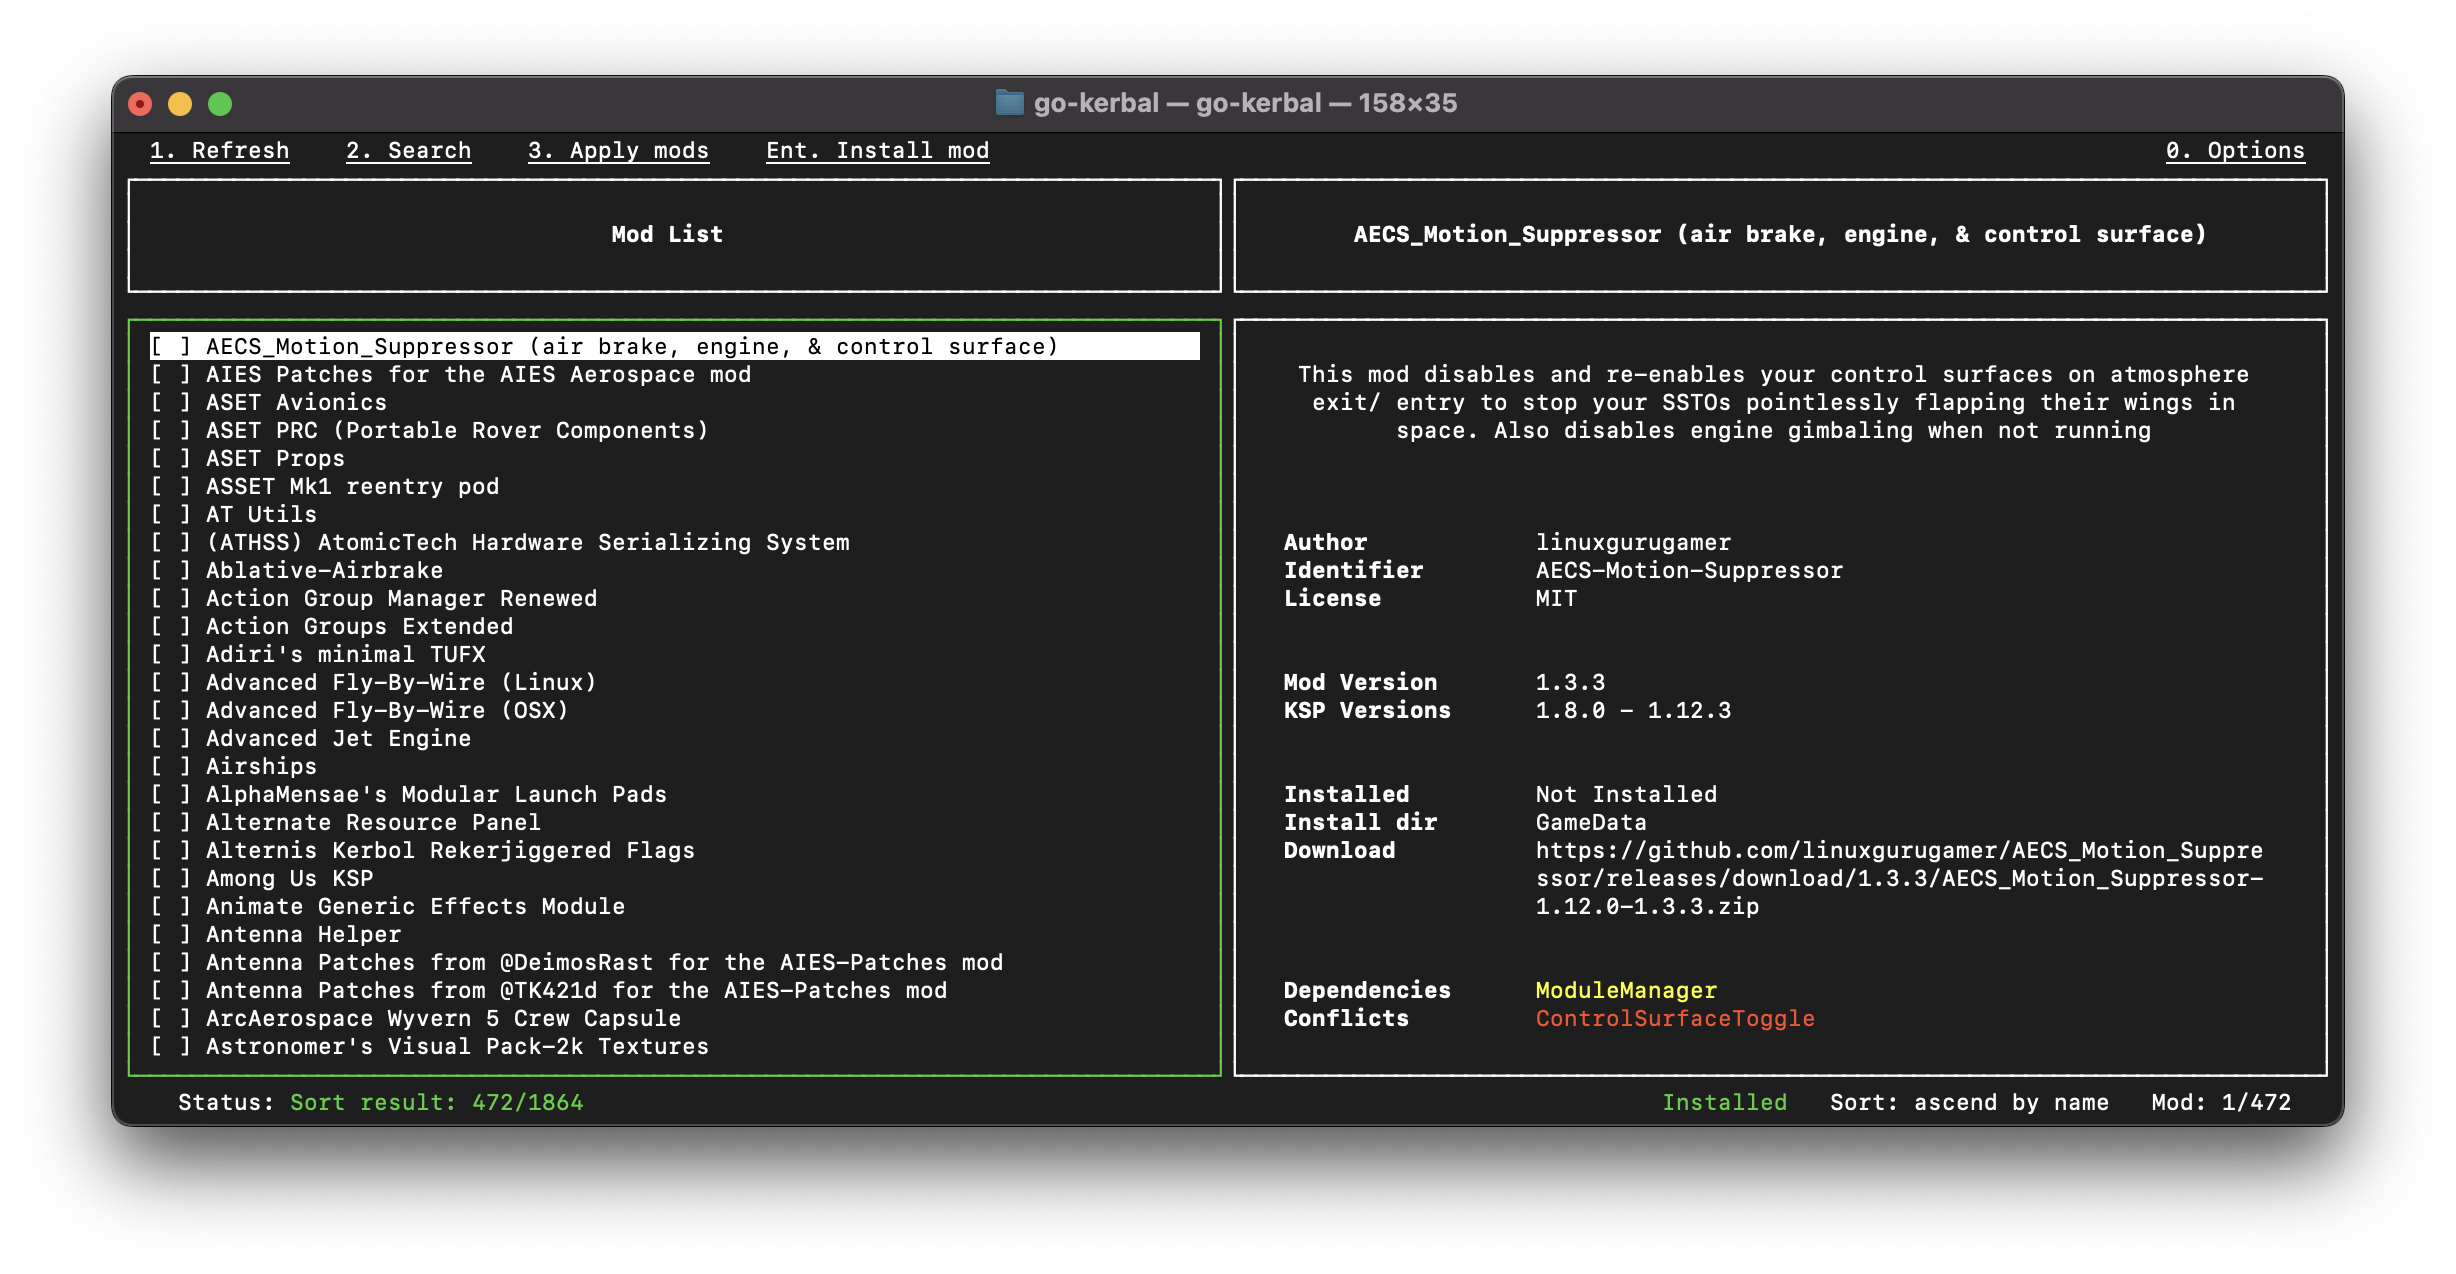
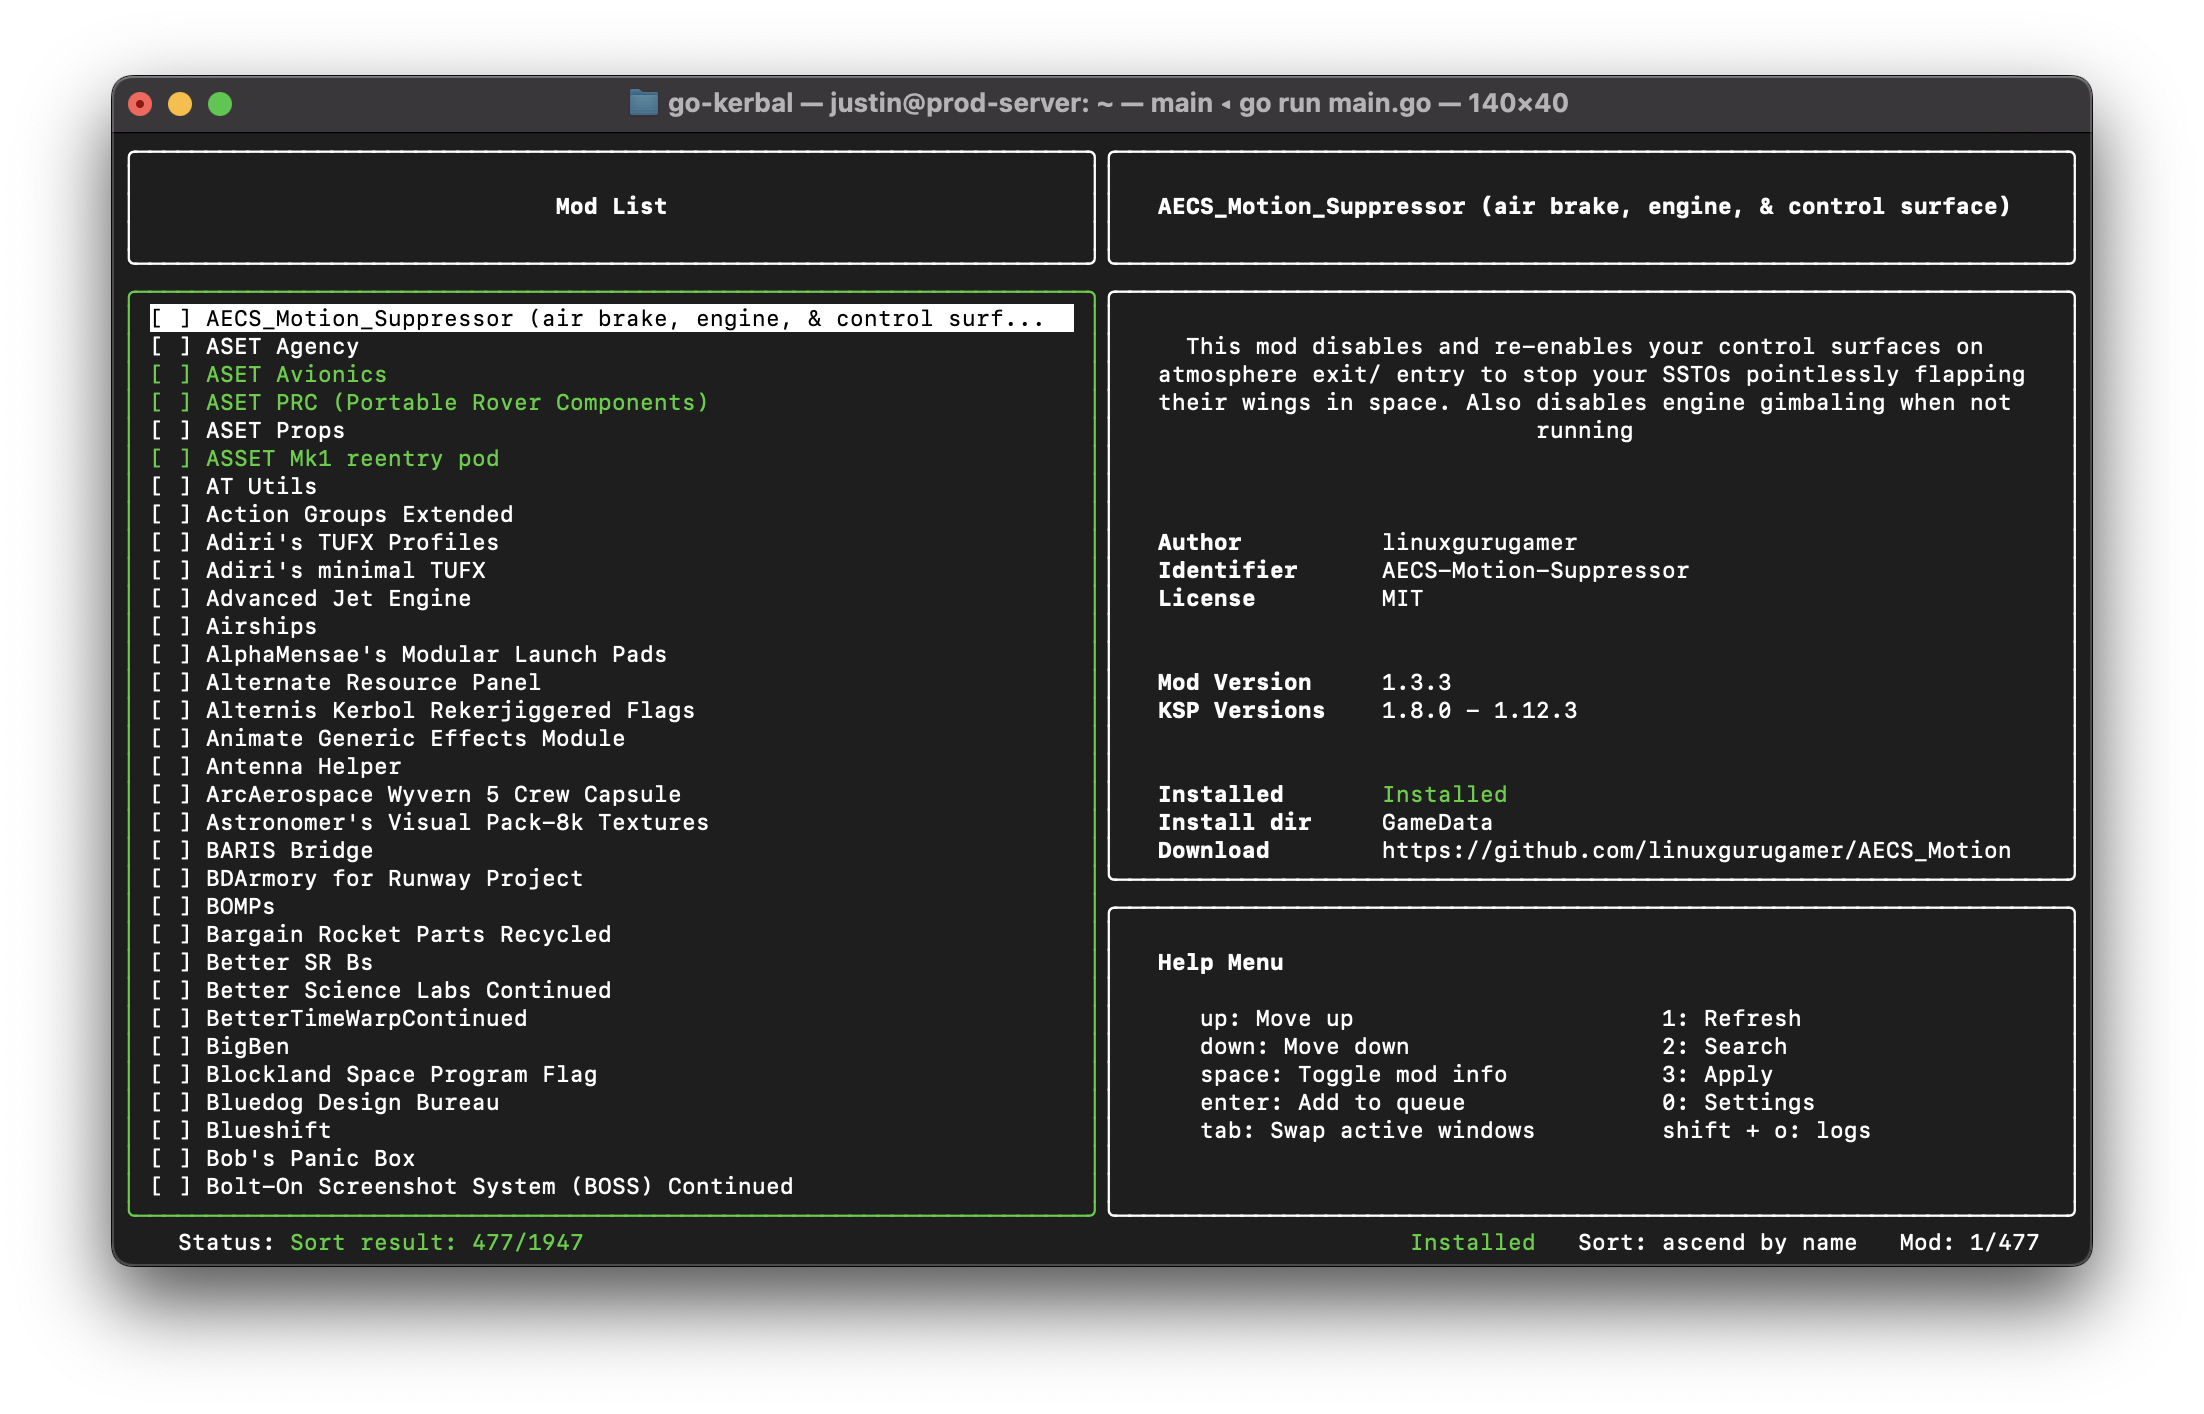
removed top toolbar

Changed region(s): [[0.0309, 0.0306, 0.9564, 0.9184], [0.833, 0.7959, 0.8639, 0.8265], [0.6788, 0.4898, 0.7096, 0.5204]]

diff --git a/internal/tui/views.go b/internal/tui/views.go
@@ -151,7 +151,14 @@ func (b Bubble) homeView() string {
 		Padding(2).
 		Render
 
-	return contentStyle("Go-Kerbal Home Page")
+	content := "Go-Kerbal Home Page\n" +
+		"\n" +
+		"To do:\n " +
+		"- Display error messages\n " +
+		"- Ensure mods install/uninstall properly\n " +
+		"- Dynamic command view\n "
+
+	return contentStyle(content)
 
 }
 
@@ -200,7 +207,7 @@ func (b Bubble) logView() string {
 
 	body := connectVert(bodyList...)
 	return lipgloss.NewStyle().
-		Width(b.bubbles.splashViewport.Width - 1).
+		Width(b.bubbles.splashViewport.Width).
 		Height(b.bubbles.splashViewport.Height - 3).
 		Render(body)
 }
@@ -666,7 +673,7 @@ func (b Bubble) helpView() string {
 		Bold(true).
 		Align(lipgloss.Left).
 		Width(b.bubbles.commandViewport.Width).
-		Padding(1, 2)
+		Padding(1, 2, 0)
 
 	itemStyle := lipgloss.NewStyle().
 		Width((b.bubbles.commandViewport.Width / 2)).
@@ -675,11 +682,11 @@ func (b Bubble) helpView() string {
 		Render
 
 	leftColumn := []string{
-		itemStyle("up: move up"),
-		itemStyle("down: move down"),
-		itemStyle("space: space"),
-		itemStyle("enter: enter"),
-		itemStyle("tab: tab"),
+		itemStyle("up: Move up"),
+		itemStyle("down: Move down"),
+		itemStyle("space: Toggle mod info"),
+		itemStyle("enter: Add to queue"),
+		itemStyle("tab: Swap active windows"),
 	}
 
 	rightColumn := []string{
@@ -691,6 +698,8 @@ func (b Bubble) helpView() string {
 	}
 
 	content := connectHorz(connectVert(leftColumn...), connectVert(rightColumn...))
+
+	content = lipgloss.NewStyle().Padding(1).Render(content)
 
 	content = connectVert(
 		titleStyle.Render("Help Menu"),
@@ -712,7 +721,7 @@ func (b Bubble) getBoolOptionsView() string {
 	optionStyle := lipgloss.NewStyle().
 		Border(lipgloss.RoundedBorder()).
 		Align(lipgloss.Center).
-		Padding(1, 4).
+		Padding(0, 4).
 		Margin(1, 1)
 
 	cancel := optionStyle.Render("Cancel")

diff --git a/internal/tui/update.go b/internal/tui/update.go
@@ -78,16 +78,16 @@ func (b Bubble) Update(msg tea.Msg) (tea.Model, tea.Cmd) {
 		b.height = msg.Height
 
 		b.bubbles.primaryViewport.Width = (msg.Width / 2) - b.bubbles.primaryViewport.Style.GetHorizontalFrameSize()
-		b.bubbles.primaryViewport.Height = msg.Height - (internal.StatusBarHeight * 2) - b.bubbles.primaryViewport.Style.GetVerticalFrameSize() - 5
+		b.bubbles.primaryViewport.Height = msg.Height - internal.StatusBarHeight - b.bubbles.primaryViewport.Style.GetVerticalFrameSize() - 5
 
 		b.bubbles.secondaryViewport.Width = (msg.Width / 2) - b.bubbles.secondaryViewport.Style.GetHorizontalFrameSize()
-		b.bubbles.secondaryViewport.Height = (msg.Height * 2 / 3) - (internal.StatusBarHeight * 2) - b.bubbles.secondaryViewport.Style.GetVerticalFrameSize() - 2
+		b.bubbles.secondaryViewport.Height = (msg.Height * 2 / 3) - internal.StatusBarHeight - b.bubbles.secondaryViewport.Style.GetVerticalFrameSize() - 3
 
 		b.bubbles.commandViewport.Width = (msg.Width / 2) - b.bubbles.commandViewport.Style.GetHorizontalFrameSize()
-		b.bubbles.commandViewport.Height = (msg.Height / 3) - (internal.StatusBarHeight * 2) - b.bubbles.commandViewport.Style.GetVerticalFrameSize()
+		b.bubbles.commandViewport.Height = (msg.Height / 3) - internal.StatusBarHeight - b.bubbles.commandViewport.Style.GetVerticalFrameSize()
 
 		b.bubbles.splashViewport.Width = msg.Width - b.bubbles.splashViewport.Style.GetHorizontalFrameSize()
-		b.bubbles.splashViewport.Height = msg.Height - (internal.StatusBarHeight * 2) - b.bubbles.splashViewport.Style.GetVerticalFrameSize() - 5
+		b.bubbles.splashViewport.Height = msg.Height - internal.StatusBarHeight - b.bubbles.splashViewport.Style.GetVerticalFrameSize() - 5
 
 	case tea.KeyMsg:
 		cmds = append(cmds, b.handleKeys(msg))

diff --git a/internal/tui/view.go b/internal/tui/view.go
@@ -95,30 +95,28 @@ func (b Bubble) View() string {
 	}
 
 	return connectVert(
-		b.getMainButtonsView(),
+		//b.getMainButtonsView(),
 		body,
 		b.statusBarView(),
 	)
 }
 
 func (b Bubble) styleTitle(s string) string {
+	titleStyle := lipgloss.NewStyle().
+		Bold(true).
+		Align(lipgloss.Center).
+		Height(3).
+		Border(lipgloss.RoundedBorder()).
+		Padding(1)
+		//Margin(1, 0)
+
 	switch b.activeBox {
 	case internal.LogView, internal.EnterKspDirView:
-		return lipgloss.NewStyle().
-			Bold(true).
-			Align(lipgloss.Center).
-			Height(3).
-			Border(lipgloss.RoundedBorder()).
-			Padding(1).
-			Width(b.bubbles.splashViewport.Width).
+		return titleStyle.
+			Width(b.bubbles.splashViewport.Width + 2).
 			Render(s)
 	default:
-		return lipgloss.NewStyle().
-			Bold(true).
-			Align(lipgloss.Center).
-			Height(3).
-			Border(lipgloss.RoundedBorder()).
-			Padding(1).
+		return titleStyle.
 			Width(b.bubbles.primaryViewport.Width + 2).
 			Render(s)
 	}

diff --git a/internal/tui/keyhandler.go b/internal/tui/keyhandler.go
@@ -24,7 +24,7 @@ func (b *Bubble) handleKeys(msg tea.KeyMsg) tea.Cmd {
 
 	// Down
 	case key.Matches(msg, b.keyMap.Down):
-		if b.nav.listSelected == -1 {
+		if b.nav.listSelected == -1 && b.activeBox == internal.QueueView {
 			b.nav.listSelected = 0
 		} else {
 			b.scrollView("down")

diff --git a/README.md b/README.md
@@ -18,6 +18,7 @@ go build && ./go-kerbal
 ## Images
 ![Main View](https://github.com/jedwards1230/go-kerbal/blob/main/screenshots/main.png?raw=true "Main view")
 ![Mod Selected](https://github.com/jedwards1230/go-kerbal/blob/main/screenshots/modInfo.png?raw=true "Mod Info")
+![Install Queue](https://github.com/jedwards1230/go-kerbal/blob/main/screenshots/queue.png?raw=true "Install Queue")
 ![Options View](https://github.com/jedwards1230/go-kerbal/blob/main/screenshots/options.png?raw=true "Options")
 ![Log View](https://github.com/jedwards1230/go-kerbal/blob/main/screenshots/logs.png?raw=true "Logs")
 
